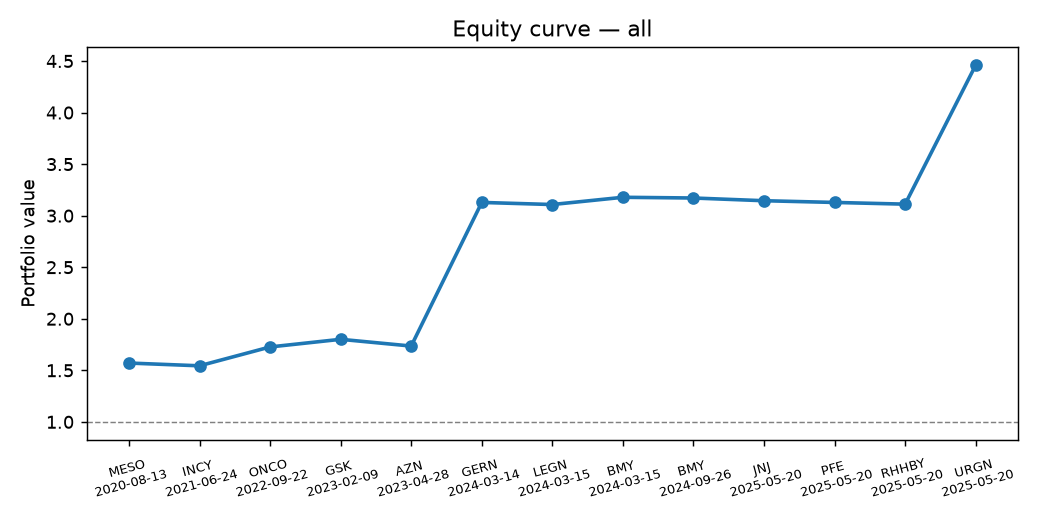
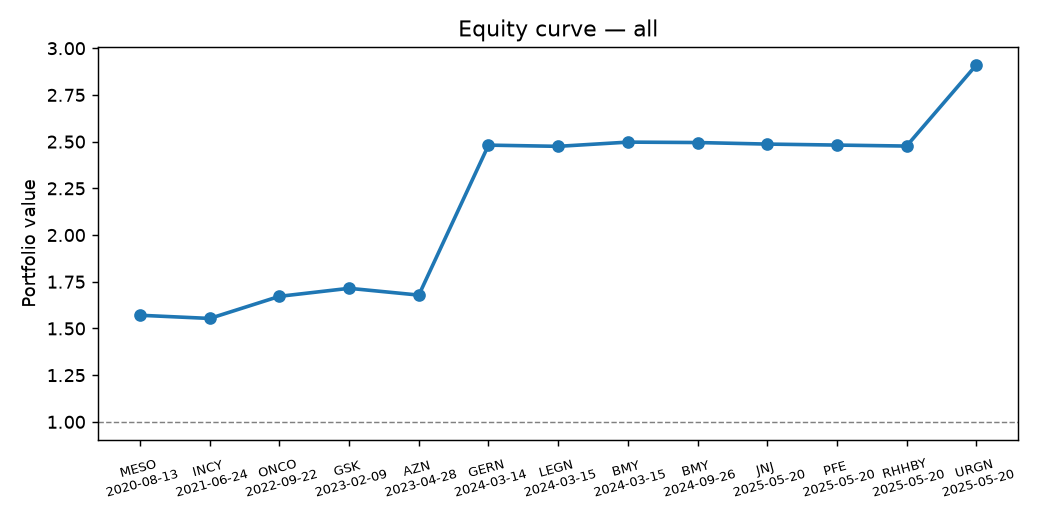
editted the backtesting:

diff --git a/src/evaluation/backtest.py b/src/evaluation/backtest.py
@@ -125,15 +125,18 @@ def run_backtest(mode):
 def compute_metrics(trades):
     if len(trades) == 0:
         return {"error": "no trades"}
-    r  = trades["trade_return"].values
-    eq = np.cumprod(1 + r)
+    r = trades["trade_return"].values
+    
+    eq = 1.0 + np.cumsum(r)
+    
     dates = pd.to_datetime(trades["event_date"])
     years = max((dates.max() - dates.min()).days / 365.25, 0.5)
     sharpe = (r.mean() / r.std() * np.sqrt(len(r) / years)) if r.std() > 0 else 0.0
-    peak   = np.maximum.accumulate(eq)
+    peak = np.maximum.accumulate(eq)
+    
     return {
         "n_trades":          int(len(r)),
-        "total_return_pct":  round((eq[-1] - 1) * 100, 2),
+        "total_return_pct":  round((eq[-1] - 1) * 100, 2),  # This simplifies directly to round(r.sum() * 100, 2)
         "sharpe_annualized": round(sharpe, 3),
         "max_drawdown_pct":  round(float(((eq - peak) / peak).min()) * 100, 2),
         "hit_rate_pct":      round(float((r > 0).mean()) * 100, 1),
@@ -141,10 +144,11 @@ def compute_metrics(trades):
     }
 
 
+
 def plot_equity(trades, mode):
     if len(trades) == 0:
         return
-    eq     = np.cumprod(1 + trades["trade_return"].values)
+    eq = 1.0 + np.cumsum(trades["trade_return"].values)
     labels = [f"{row.ticker}\n{row.event_date}" for _, row in trades.iterrows()]
     plt.figure(figsize=(8, 4))
     plt.plot(range(1, len(eq) + 1), eq, marker="o", linewidth=2)